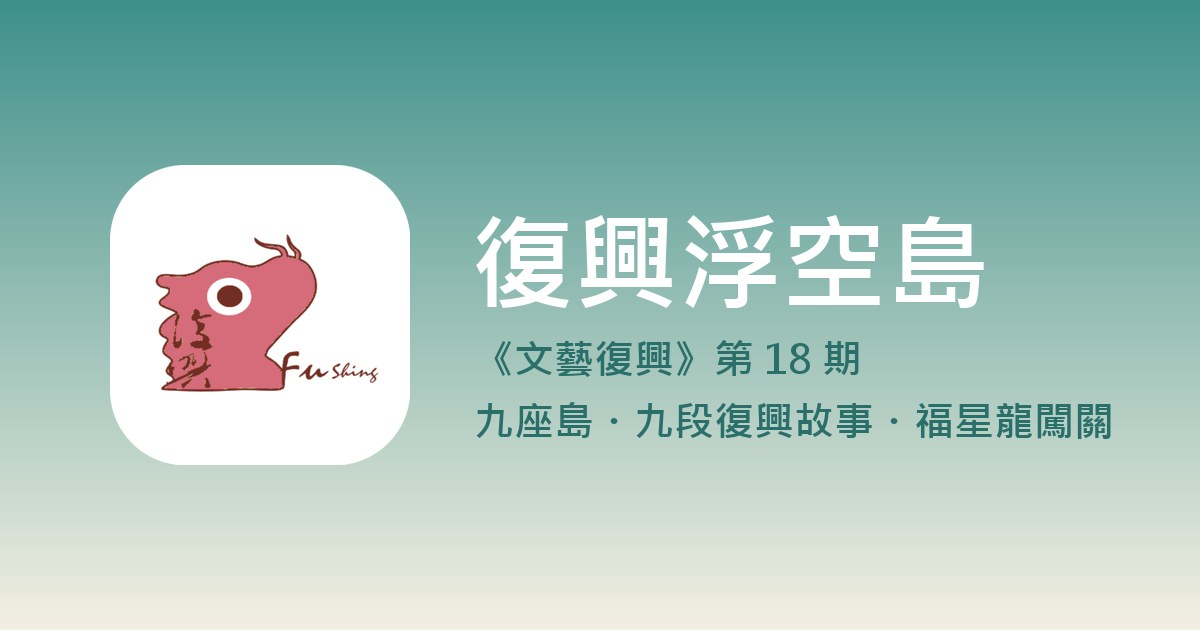
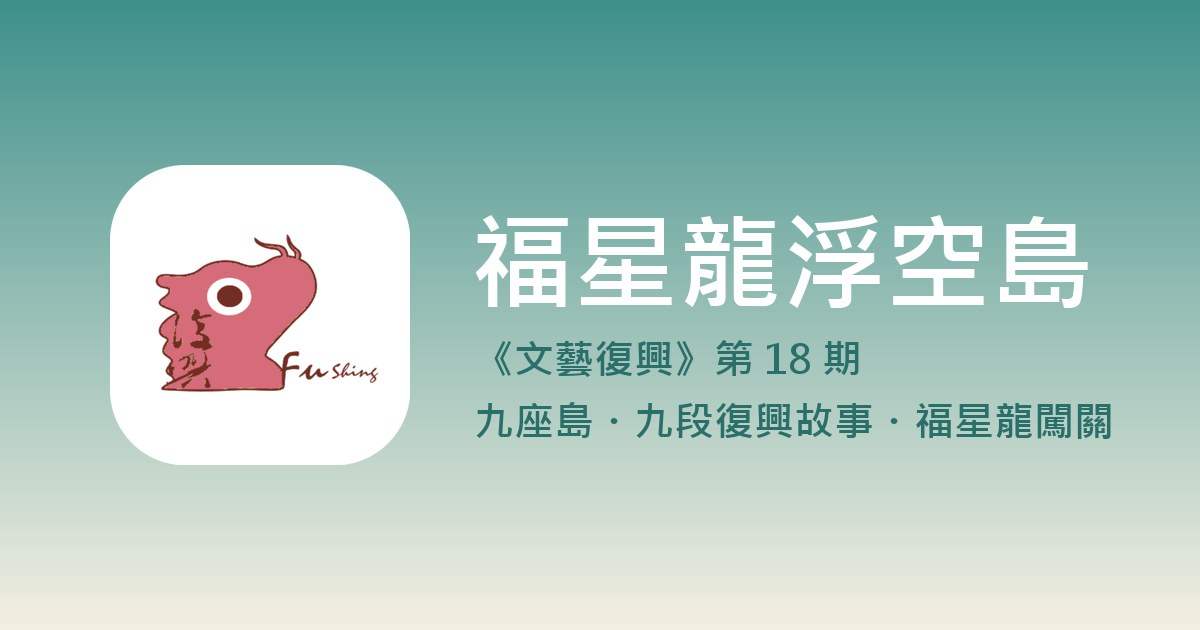
網站改名「福星龍浮空島」，卡片新增 20 張圖片
- 新增活動照片、學生畫作與校刊插圖，27 張卡片有圖、九座島都有
- 收合的卡片顯示小縮圖；單張照片以寬版顯示，畫作與插圖完整呈現
- 畫作避開姓名標籤，照片只用團體照與遠景（scripts/crop-photos18.py）
- 標題、分享圖、主畫面名稱、證書與台詞改為「福星龍浮空島」

Changed region(s): [[0.4008, 0.3317, 0.925, 0.5127]]

diff --git a/src/data/issues/18/index.js b/src/data/issues/18/index.js
@@ -20,6 +20,25 @@ export const PHOTOS = {
   'kids-day': '兒童節：全校班級闖關合照',
   'general-1': '總務處：綠籬修剪',
   'general-2': '總務處：操場球網蓋上黑布',
+  'world-food': '小小環遊世界：韓國美食與埃及甜點手作',
+  'world-art': '國際交流藝術課',
+  'walk-trip': '走讀小達人探索去',
+  'walk-tribe': '部落智慧與科學探索之旅',
+  'honor-model': '114 學年度模範生',
+  'honor-reader': '縣英語讀者劇場比賽',
+  'honor-song': '英語歌謠發表',
+  'kinder-paper': '幼兒園：把再生紙拿去曬太陽',
+  'general-3': '學校服務員榮獲績優工友獎',
+  'art-season': '二年三班〈看見四季〉作品',
+  'art-season2': '二年三班〈看見四季〉作品',
+  'art-tear': '二年二班撕貼畫',
+  'art-charm': '一年二班動物吊飾',
+  'art-masks': '一年三班美勞作品',
+  'clip-hero': '校刊插圖：超能力小英雄',
+  'clip-cookie': '校刊插圖：奶油餅乾',
+  'clip-kids': '校刊插圖：一起讀書的同學',
+  'clip-girl': '校刊插圖：成功的笑容',
+  'clip-mom': '校刊插圖：媽媽的陪伴',
 };
 
 export const ISSUE = {
@@ -42,9 +61,9 @@ export const ISSUE = {
         text: '復興國小秉持「立足在地、放眼國際」：先帶孩子走讀家鄉、認識屏東的歷史與自然，建立對自己文化的認同，再一步步認識世界。\n國際教育不只是學外語，更要學會理解自己、尊重不同的文化。' },
       { id: 'shop', title: '國際柑仔店', from: 'P.3',
         text: '學校打造了「國際柑仔店」，由孩子擔任小關主與小店長，用英語和老師、同學互動。購物、介紹商品、角色扮演，孩子在真實的情境裡練習開口說英語，越說越有自信。低年級還可以用「龍銀」來兌換喔！' },
-      { id: 'egypt', title: '走進埃及生活', from: 'P.3、P.7',
+      { id: 'egypt', title: '走進埃及生活', from: 'P.3、P.7', photos: ['world-food'],
         text: '親職講座邀請中東傳統民俗舞團的老師，帶親子一起「走進埃及生活」。大家認識埃及人的日常與飲食，一起動手做埃及傳統甜點「米布丁」，還品嚐了特色點心「貝都英薄餅」，讓國際教育從校園延伸到家裡。' },
-      { id: 'phil', title: '菲律賓的朋友來了', from: 'P.3',
+      { id: 'phil', title: '菲律賓的朋友來了', from: 'P.3', photos: ['world-art'],
         text: '四月，來自菲律賓兩所高中的師生到學校交流。孩子用陶笛演奏迎賓，送上代表臺灣的文化禮物；五年級學生還和菲律賓高中生用英語討論，一起創作「十二生肖：馬與羊」黏土作品。最後，菲律賓學生帶來精彩的舞蹈表演。' },
       { id: 'my', title: '六年級的馬來西亞之旅', from: 'P.33（六年一班）', pieces: ['p33-3'],
         text: '一位六年一班的同學寫下馬來西亞之旅：吉隆坡的飯店和百貨一間又一間，和網路上說的不一樣；前往雲頂樂園的路上，雲霧濃到手一伸出去就看不見；在 4D 小電影裡開戰機打外星人，緊張又興奮，還玩了第二次。' },
@@ -54,7 +73,7 @@ export const ISSUE = {
 
     // ── 秘境踏查島：家鄉探索 ──
     walk: [
-      { id: 'walk-spring', title: '春天走讀：萬年公園', from: 'P.21（三年一班）', pieces: ['p21-3'],
+      { id: 'walk-spring', title: '春天走讀：萬年公園', from: 'P.21（三年一班）', pieces: ['p21-3'], photos: ['walk-trip'],
         text: '三年一班的同學在春天早上走讀萬年公園：橫跨馬路的天使橋像張開翅膀，萬年溪彎彎的往前流，粉紅風鈴木像掛上鈴鐺在樹梢閃呀閃。回到學校，大家用蠟筆和棉花棒畫下自己最欣賞的大樹。' },
       { id: 'walk-park', title: '帶外國朋友遊屏東', from: 'P.29（五年一班）', pieces: ['p29-3'],
         text: '五年一班的同學帶韓國朋友逛屏東縣民公園，舊紙漿廠的老牆配上熱鬧的夏日慶典；晚上再到屏東夜市吃土魠魚羹。朋友一口接著一口，讓作者發現：最好的國民外交，就是帶朋友感受家鄉的人情味與美味。' },
@@ -62,7 +81,7 @@ export const ISSUE = {
         text: '五年三班的同學帶馬來西亞朋友回爸爸的故鄉澎湖：一早去海邊採蛤蜊，每採到一顆，朋友都像找到寶藏一樣激動；奶奶煮了拿手的蛤蜊大餐，傍晚再一邊吃仙人掌冰一邊看海。' },
       { id: 'walk-food', title: '香氣裡的臺灣好味道', from: 'P.31（五年三班）', pieces: ['p31-3'],
         text: '想像英國女王來到臺灣，五年三班的同學帶她去屏東夜市吃臭臭鍋！聞起來臭、吃起來香，女王一吃就愛上了。作者也化身美食專家，介紹臭豆腐發酵的祕密，再帶女王去縣民公園看燈會。' },
-      { id: 'walk-wutai', title: '我的外交日記：霧台', from: 'P.32（五年四班）', pieces: ['p32-1'],
+      { id: 'walk-wutai', title: '我的外交日記：霧台', from: 'P.32（五年四班）', pieces: ['p32-1'], photos: ['walk-tribe'],
         text: '五年四班的同學帶德國朋友走進屏東霧台鄉：雲霧繚繞的山林、層層疊疊的石板屋，還有晶瑩剔透的愛玉和香噴噴的烤山豬肉。深入家鄉角落後，作者更有自信向世界介紹這片土地。' },
       { id: 'walk-ai', title: 'AI 時代的領航者', from: 'P.29（五年一班）', pieces: ['p29-2'],
         text: '五年一班的同學寫下最欣賞的科技人物：輝達（NVIDIA）執行長黃仁勳。早期的顯示卡賣得不好，他幾度陷入絕境，卻不放棄創新。作者記住了他的一句話：「要跑，而不要用走的！」' },
@@ -78,13 +97,13 @@ export const ISSUE = {
         text: '一年二班的孩子介紹媽媽：臉圓圓的像蘋果、像月亮，頭腦像一台什麼都會的電腦；有的媽媽個性隨和像天使，有的生氣起來像一顆炸彈。孩子說，有媽媽的每一天都好幸福。' },
       { id: 'love-g2', title: '我的家人', from: 'P.18（二年一班）', pieces: ['p18-1', 'p18-3', 'p18-4', 'p18-5', 'p18-6'],
         text: '二年一班寫下家人：溫柔像小白兔的奶奶、陪大家運動的爸爸、半夜發現孩子發燒趕來照顧的媽媽、帶全家去放風箏的爺爺。每一篇最後，都是一句「謝謝您，我愛您！」' },
-      { id: 'love-dad', title: '爸爸像什麼？', from: 'P.19（二年二班）', pieces: range(19, 1, 11),
+      { id: 'love-dad', title: '爸爸像什麼？', from: 'P.19（二年二班）', pieces: range(19, 1, 11), photos: ['art-tear'],
         text: '二年二班用一句話形容爸爸：爸爸像鬧鐘，早上叫我起床；爸爸像許願池，會掏空錢包實現我的願望；爸爸像熱情的太陽，陪我和弟弟打棒球。你的爸爸像什麼呢？' },
       { id: 'love-g3', title: '媽媽，妳是我的指南針', from: 'P.23、P.24（三年級）', pieces: ['p23-3', 'p23-4', 'p24-1', 'p24-2', 'p24-3'],
         text: '三年級的童詩，把媽媽比喻成身邊的東西：溫暖的雙手像翅膀、明亮的眼睛像星星，在孩子迷路或難過的時候給出方向。「哦！媽媽，妳是我的指南針、我的城堡、我的避風港！」' },
       { id: 'love-g5', title: '魔術師媽媽', from: 'P.29～P.32（五年級）', pieces: ['p29-1', 'p30-3', 'p31-1', 'p32-3', 'p32-4'],
         text: '五年級的孩子說，媽媽是魔術師：哭的時候變成搞笑小丑，跌倒時變成厚實的高牆，熬夜念書時變成夜燈，未來遠行時變成指引回家的北極星。也有人說媽媽像春風、像暖暖包、像一顆輕軟的枕頭。' },
-      { id: 'love-g4', title: '我最敬佩的人：媽媽', from: 'P.28、P.32（四、五年級）', pieces: ['p28-1', 'p28-2', 'p32-2'],
+      { id: 'love-g4', title: '我最敬佩的人：媽媽', from: 'P.28、P.32（四、五年級）', pieces: ['p28-1', 'p28-2', 'p32-2'], photos: ['clip-mom'],
         text: '四、五年級的孩子寫下最敬佩的媽媽：第一個起床做早餐、身體不舒服還堅持工作、全家感冒時守在床邊。孩子們說，希望長大後也能像媽媽一樣，成為堅強、善良又溫柔的人。' },
     ],
 
@@ -92,9 +111,9 @@ export const ISSUE = {
     results: [
       { id: 'honor-sport', title: '運動場上的光', from: 'P.11 學務處', photos: ['honor-1', 'honor-2'],
         text: '柔道：全國柔道錦標賽有同學拿下冠軍與季軍，縣中小學聯合運動會共有 10 人次得名。\n跆拳道：縣主委盃、高雄港都盃、嘉義理事長盃等比賽，低年級選手表現亮眼，多人拿下品勢第一名。\n團體：棒球隊拿下縣華南金控選拔賽與學生棒球聯賽縣初賽兩項冠軍；舞蹈菁英班在全國舞蹈比賽決賽獲得優等；合唱團獲得縣客家歌謠比賽甲等；圍棋也有同學得名。' },
-      { id: 'honor-study', title: '學科與藝文的榮耀', from: 'P.9、P.10 教務處',
+      { id: 'honor-study', title: '學科與藝文的榮耀', from: 'P.9、P.10 教務處', photos: ['honor-reader', 'honor-song'],
         text: '校內語文競賽：國語、臺語、英語朗讀，以及作文、字音字形、硬筆字，共頒出 37 個名次。\n校外比賽：數學全國競賽、閱讀全國競賽、溫世仁作文比賽、國泰兒童繪畫比賽、程式遊戲設計競賽都有同學獲獎；英語讀者劇場團隊榮獲縣賽優等，四年一班在英語歌謠發表獲得甲等。\n寒假作業：23 個班級共 115 位同學獲選為優良作業。' },
-      { id: 'honor-life', title: '生活競賽與模範生', from: 'P.11、P.12',
+      { id: 'honor-life', title: '生活競賽與模範生', from: 'P.11、P.12', photos: ['honor-model'],
         text: '整潔、秩序、禮貌三項生活競賽每週評比，各年段輪流拿下前三名，比的是大家每天的好習慣。\n114 學年度選出縣模範生 1 位，各班也選出市長獎、校長獎、家長會長獎三位模範生代表，一共 69 位。' },
       { id: 'honor-grad', title: '第 58 屆畢業典禮', from: 'P.36',
         text: '114 學年度第 58 屆畢業典禮，三個畢業班的同學獲頒縣長獎、議長獎、市長獎、校長獎、家長會長獎、議員獎、里長獎，以及潛力獎、飛躍獎、特殊藝文與體育表現獎等二十多種獎項，肯定每個人六年來不同面向的努力。' },
@@ -102,13 +121,13 @@ export const ISSUE = {
 
     // ── 奇思妙想島：想像創作（二至六年級）──
     inquiry: [
-      { id: 'create-season', title: '看見四季', from: 'P.20（二年三班）', pieces: range(20, 1, 27),
+      { id: 'create-season', title: '看見四季', from: 'P.20（二年三班）', pieces: range(20, 1, 27), photos: ['art-season', 'art-season2'],
         text: '二年三班全班一起用「一眼就看見」寫四季：斑馬跑出森林，看見綠綠的叢林，春天是綠色的；小海豚游出大海，看見黃色的沙灘，夏天是黃色的；小貓看見紅色的楓葉，秋天是紅色的；小兔子看見白白的雪地，冬天是白色的。' },
-      { id: 'create-power', title: '如果我有超能力', from: 'P.22（三年二班）', pieces: range(22, 1, 3),
+      { id: 'create-power', title: '如果我有超能力', from: 'P.22（三年二班）', pieces: range(22, 1, 3), photos: ['clip-hero'],
         text: '三年二班的孩子最想擁有飛行的超能力：可以幫忙撿飛走的氣球、躲在雲層上玩捉迷藏、和雲朵當好朋友、早上飛去夏威夷晚上飛去冰島看極光。他們也說，只要保持想像力，就擁有世界上最厲害的超能力。' },
       { id: 'create-rabbit', title: '兔子農夫的一天', from: 'P.23（三年三班）', pieces: ['p23-1', 'p23-2'],
         text: '看圖說故事：兔子農夫在農田裡發現三片巨大的葉子，大得像鐵扇公主的芭蕉扇。他找來大熊、松鼠、小貓、小狗和老鼠一起拔，終於拔出一顆超大的白蘿蔔，晚上做成蘿蔔湯、蘿蔔糕，吃了好久都吃不完。' },
-      { id: 'create-g3', title: '樂高、餅乾與許願', from: 'P.21（三年一班）', pieces: ['p21-4', 'p21-1', 'p21-2', 'p21-5'],
+      { id: 'create-g3', title: '樂高、餅乾與許願', from: 'P.21（三年一班）', pieces: ['p21-4', 'p21-1', 'p21-2', 'p21-5'], photos: ['clip-cookie'],
         text: '三年一班的作文好有生活感：樂高是「活著的玩具」，轉個角度就能解決卡住的地方；奶油餅乾有好多種吃法，但媽媽說糖不能吃太多；打針前心臟碰碰跳，打完才發現比蚊子叮還輕。還有一首童詩寫下大家的願望。' },
       { id: 'create-holiday', title: '我的假日休閒活動', from: 'P.26（四年二班）', pieces: range(26, 1, 4),
         text: '「休息是為了走更長遠的路。」四年二班的孩子說，假日就像充電器：騎腳踏車去縣民公園、和好朋友玩桌遊、全家去遛狗，或是和朋友打籃球。好好休息，才能充滿活力迎接新的一週。' },
@@ -120,13 +139,13 @@ export const ISSUE = {
 
     // ── 萌芽歡樂島：幼兒園與一年級 ──
     forest: [
-      { id: 'sprout-k', title: '幼兒園的環保小尖兵', from: 'P.4、P.5 幼兒園', pieces: ['page4'], photos: ['kinder-1'],
+      { id: 'sprout-k', title: '幼兒園的環保小尖兵', from: 'P.4、P.5 幼兒園', pieces: ['page4'], photos: ['kinder-1', 'kinder-paper'],
         text: '幼兒園的孩子在團體討論中決定當環保小尖兵：兩兩一組，用回收紙杯做成的夾子去打掃社區，結果垃圾多到裝不下，只好裝滿一大袋。於是他們在世界地球日邀請社區的爺爺奶奶一起簽署愛護地球，回到教室再學垃圾分類。\n他們還用甘蔗渣和紙蛋盒做出再生紙：撕碎、泡水攪拌、倒進大桶、用網框撈起，再拿去曬太陽。' },
       { id: 'sprout-like', title: '像什麼？一年一班的比喻', from: 'P.14（一年一班）', pieces: range(14, 1, 8),
         text: '一年一班學會「像」：貓咪的眼睛像珍珠，亮晶晶的；獵豹的速度像賽車；媽媽的眼睛像星星。還有「聽一聽、看一看、聞一聞」的小詩，帶你去動物園和迪士尼找一找。' },
-      { id: 'sprout-dog', title: '我的小狗', from: 'P.15（一年二班）', pieces: ['p15-2'],
+      { id: 'sprout-dog', title: '我的小狗', from: 'P.15（一年二班）', pieces: ['p15-2'], photos: ['art-charm'],
         text: '一年二班的同學介紹最棒的家人——小狗：臉毛茸茸的像小綿羊，發脾氣時像小老虎，被捉弄時卻熱情地舔主人的臉。有牠陪伴，每一天都充滿幸福。' },
-      { id: 'sprout-compare', title: '比一比，有什麼不同？', from: 'P.16（一年三班）', pieces: range(16, 1, 5),
+      { id: 'sprout-compare', title: '比一比，有什麼不同？', from: 'P.16（一年三班）', pieces: range(16, 1, 5), photos: ['art-masks'],
         text: '一年三班的孩子學會比一比：「天上地下，比一比，有什麼不同？」葡萄小小的、橘子大大的；「生日的日、數目的目」，字形很像，意思卻不一樣。過新年時，還想送蘋果、水餃和鳳梨給大家當祝福。' },
       { id: 'sprout-poem', title: '一年四班童詩集', from: 'P.17（一年四班）', pieces: range(17, 1, 23),
         text: '一年四班寫了二十多首童詩：下雨、老虎、蜜蜂、彩虹、風箏、海底世界……\n「藍藍的天空，太陽白雲掛天空，烏雲來了像黑洞，下雨打雷轟隆隆。」每一首都短短的、押著韻，好適合大聲念出來。' },
@@ -136,7 +155,7 @@ export const ISSUE = {
 
     // ── 乘風蛻變島：成長與畢業 ──
     future: [
-      { id: 'grow-success', title: '那一次，我成功了！', from: 'P.28（四年四班）', pieces: ['p28-3', 'p28-4'],
+      { id: 'grow-success', title: '那一次，我成功了！', from: 'P.28（四年四班）', pieces: ['p28-3', 'p28-4'], photos: ['clip-girl'],
         text: '四年四班的孩子寫下自己的突破：有人在爸爸陪伴下，從車頭搖晃、扭傷腳想放棄，到終於穩穩騎上兩輪腳踏車；也有人鼓起勇氣報名演講比賽，從結結巴巴、忘詞，練到站上台贏得熱烈掌聲。' },
       { id: 'grow-treasure', title: '我心目中的寶', from: 'P.25（四年一班）', pieces: ['p25-1'],
         text: '有同學說，他心目中的寶不是珠寶，而是用心得到的柔道獎牌。第一次比賽被對手弄得團團轉，教練說：「天才是百分之一的天分和百分之九十九的努力。」他更努力練習，終於拿到人生第一面獎牌。' },
@@ -148,7 +167,7 @@ export const ISSUE = {
         text: '楊恩典一出生就沒有雙手，嬰兒時被遺棄，幸好被育幼院的牧師夫婦收養。她用腳趾練習寫字、畫畫，練到紅腫抽筋也不放棄，最後成為國際知名的口足畫家。作者說，以後遇到困難想放棄時，就會想起她用雙腳揮灑色彩的模樣。' },
       { id: 'grow-friend', title: '一個影響我深遠的人', from: 'P.33（六年一班）', pieces: ['p33-2', 'p33-1'],
         text: '一位比較靦腆的同學，因為好朋友的一句話而改變：「妳要先學會愛自己，才可以學會怎麼愛別人。」她明白每個人都有優缺點，要勇敢活出耀眼的自己。另一篇則記下寒假全家圍著火鍋聊天的溫暖時光。' },
-      { id: 'grow-bye', title: '再見了，我的母校', from: 'P.34（六年二班）', pieces: ['p34-1', 'p34-2'],
+      { id: 'grow-bye', title: '再見了，我的母校', from: 'P.34（六年二班）', pieces: ['p34-1', 'p34-2'], photos: ['clip-kids'],
         text: '六年級的畢業生回顧六年：從一年級的陌生緊張，到有老師耐心的教導、同學情同手足的陪伴，校園就像第二個家。「再見了，我的母校！」畢業是結束，也是新的開始。' },
       { id: 'grow-memory', title: '童年的美好回憶、溫暖人間', from: 'P.35（六年三班）', pieces: ['p35-1', 'p35-2', 'p35-3'],
         text: '六年三班寫下陪伴童年的玩偶：一隻白色小貓、一隻紅色長耳兔，陪他們度過孤單與怕黑的夜晚。另一篇〈溫暖人間〉寫上學路上看到年輕人扶起撿瓶罐的奶奶，明白溫暖人間其實很簡單。' },
@@ -162,9 +181,9 @@ export const ISSUE = {
         text: '這學期有大學教授、校長與各界專家到校，陪老師一起成長：生涯發展教育、Smart Reading 適性閱讀數據解析、PBL 校訂課程發展、英語字母拼讀、手鞠球、情緒陪伴、性平教育與教師職業安全等。\n也有大學與基金會長期陪伴孩子：英語攜手、一對一學習陪伴、舞蹈菁英班、柔道社團、棒球隊與夜光天使班課業輔導。' },
       { id: 'support-funds', title: '愛心與補助', from: 'P.8',
         text: '這學期共有 23 筆補助與捐資，總計 4,550,091 元，來自縣政府、市公所、教育部、學生棒球聯盟、基金會、企業與熱心人士。\n這些經費用在棒球隊訓練、數位鋼琴與筆電、視聽教室與廁所整修、災後復建、書包裡的美術館、課業輔導、低收入戶助學金與各種獎學金。' },
-      { id: 'support-general', title: '總務處的 28 項大事記', from: '總務處大事記', photos: ['general-1', 'general-2'],
+      { id: 'support-general', title: '總務處的 28 項大事記', from: '總務處大事記', photos: ['general-1', 'general-2', 'general-3'],
         text: '總務處完成消防防護計畫、飲水機保養、電路檢測、冷氣清洗、登革熱清消、防颱準備、排水設備增設、紗門紗窗安裝、空橋步道平整、欄杆加裝等工作；也爭取到廁所整修、PU 跑道、太陽能照明與無障礙電梯規劃等工程，學校的服務員還榮獲績優工友獎。' },
-      { id: 'support-student', title: '學務處活動剪影', from: '學務處',
+      { id: 'support-student', title: '學務處活動剪影', from: '學務處', photos: ['kids-day', 'honor-2'],
         text: '學務處帶大家過節、比賽：母親節的親子擁抱與手作、兒童節的巧克力噴泉與全校闖關，還有舞蹈菁英班在全國舞蹈比賽與模範母親表揚大會上的精彩演出。' },
     ],
   },

diff --git a/src/styles.css b/src/styles.css
@@ -806,11 +806,14 @@ body.listing .walkbar { display: none; }
 .dialog.qr-big .qr-box img { width: min(100%, calc(100dvh - 210px)); max-width: 760px; }
 .dialog.qr-big .qr-tip, .dialog.qr-big .qr-pick { display: none; }
 
-/* ───── 復興浮空島：內容卡片 ───── */
+/* ───── 福星龍浮空島：內容卡片 ───── */
 .panel .plain { margin: 2px 0 0; font-size: 0.95rem; opacity: 0.8; }
 .fs-tour { margin: 0 0 12px; line-height: 1.7; }
 .fs-card { margin: 0 0 10px; padding: 10px 12px; border: 1px solid color-mix(in srgb, var(--c, #888) 35%, transparent); border-radius: 12px; background: color-mix(in srgb, var(--c, #888) 7%, transparent); }
-.fs-card > summary { cursor: pointer; display: flex; flex-direction: column; gap: 2px; list-style: none; }
+.fs-card > summary { cursor: pointer; display: flex; align-items: center; gap: 10px; list-style: none; }
+.fs-sum { flex: 1; min-width: 0; display: flex; flex-direction: column; gap: 2px; }
+.fs-thumb { flex: none; width: 64px; height: 48px; object-fit: cover; border-radius: 8px; box-shadow: var(--shadow-rest); }
+.fs-card[open] > summary .fs-thumb { display: none; }
 .fs-card > summary::-webkit-details-marker { display: none; }
 .fs-card > summary b { font-size: 1.05rem; }
 .fs-card > summary small { opacity: 0.65; }
@@ -833,9 +836,12 @@ body.listing .walkbar { display: none; }
 :focus-visible { outline-color: var(--gold); }
 
 /* ───── 卡片照片、看原文、燈箱、注音 ───── */
-.fs-photos { display: grid; grid-template-columns: repeat(auto-fill, minmax(120px, 1fr)); gap: 6px; margin: 10px 0 2px; }
+.fs-photos { display: grid; grid-template-columns: repeat(auto-fill, minmax(140px, 1fr)); gap: 6px; margin: 10px 0 2px; }
+.fs-photos:has(> :only-child) { grid-template-columns: 1fr; }
+.fs-photos:has(> :only-child) .fs-photo { aspect-ratio: 16 / 9; }
 .fs-photo { border-radius: 9px; overflow: hidden; aspect-ratio: 4 / 3; background: var(--paper-3); }
 .fs-photo img { width: 100%; height: 100%; object-fit: cover; transition: transform .25s; }
+.fs-photo img[src*="/clip-"], .fs-photo img[src*="/art-"] { object-fit: contain; background: #fff; }
 .fs-photo:hover img { transform: scale(1.05); }
 .fs-more { margin-top: 10px; border-top: 1px dashed var(--line); padding-top: 8px; }
 .fs-more > summary { display: block; cursor: pointer; font-size: var(--fs-sm); font-weight: 700; color: var(--koi-deep); list-style: none; }

diff --git a/index.html b/index.html
@@ -20,11 +20,11 @@ addEventListener('error', function (e) {
 }, true);
 </script>
 <meta name="viewport" content="width=device-width, initial-scale=1, viewport-fit=cover" />
-<title>復興浮空島</title>
+<title>福星龍浮空島</title>
 <meta name="description" content="屏東縣復興國小《文藝復興》第 18 期的 3D 浮空島學習網站：九座島、九段復興故事。" />
 <meta name="theme-color" content="#3d8f8a" />
 <meta property="og:type" content="website" />
-<meta property="og:title" content="復興浮空島｜《文藝復興》第 18 期" />
+<meta property="og:title" content="福星龍浮空島｜《文藝復興》第 18 期" />
 <meta property="og:description" content="九座浮空島、九段復興故事。讀完內容、答對題目，集滿福星龍印章領取學習證書。" />
 <meta property="og:image" content="https://buddhaists.github.io/fushing-island/og.jpg" />
 <meta property="og:image:width" content="1200" />
@@ -41,14 +41,14 @@ addEventListener('error', function (e) {
 <link href="https://fonts.googleapis.com/css2?family=LXGW+WenKai+TC:wght@400;700&family=Noto+Sans+TC:wght@400;500;700&display=swap" rel="stylesheet" />
 </head>
 <body>
-<canvas id="world" aria-label="復興浮空島 3D 場景，可拖曳旋轉、滾輪縮放，點選島嶼查看內容"></canvas>
+<canvas id="world" aria-label="福星龍浮空島 3D 場景，可拖曳旋轉、滾輪縮放，點選島嶼查看內容"></canvas>
 <div id="labels" class="labels" aria-hidden="false"></div>
 <div id="app"></div>
 
 <div id="loader" class="loader" role="status">
   <div class="loader-card">
     <img src="./mascot/logo-fushing.png" alt="" width="132" height="110" />
-    <h1>復興浮空島</h1>
+    <h1>福星龍浮空島</h1>
     <p class="loader-sub">《文藝復興》第 18 期</p>
     <div class="loader-bar"><span id="loaderBar"></span></div>
     <p id="loaderText" class="loader-text">展開雲海…</p>

diff --git a/src/main.js b/src/main.js
@@ -50,7 +50,7 @@ $('#app').innerHTML = `
 <header class="topbar">
   <button class="brand card" data-act="home" aria-label="回到浮空島全景">
     <img src="./mascot/logo-fushing.png" alt="福星龍" width="50" height="50">
-    <span><h1>復興浮空島</h1><p>《文藝復興》第 ${ISSUE.no} 期｜九座島，九段復興故事</p></span>
+    <span><h1>福星龍浮空島</h1><p>《文藝復興》第 ${ISSUE.no} 期｜九座島，九段復興故事</p></span>
   </button>
 </header>
 
@@ -162,7 +162,8 @@ function originalHtml(ids) {
 function cardHtml(c, i, island) {
   const photos = (c.photos || []).map((k) => `<button class="fs-photo" data-act="photo" data-photo="${k}" aria-label="放大照片：${esc(PHOTOS[k] || '')}"><img src="${photoSrc(k)}" alt="${esc(PHOTOS[k] || '')}" loading="lazy"></button>`).join('');
   const orig = c.pieces?.length ? `<details class="fs-more"><summary>看原文${c.pieces.length > 1 ? `（${c.pieces.length} 篇）` : ''}</summary>${originalHtml(c.pieces)}</details>` : '';
-  return `<details class="fs-card" data-island="${island}" data-card="${c.id}" ${i === 0 ? 'open' : ''}><summary><b>${esc(c.title)}</b><small>${esc(c.from)}</small></summary>${photos ? `<div class="fs-photos">${photos}</div>` : ''}${paras(c.text)}${orig}</details>`;
+  const thumb = c.photos?.length ? `<img class="fs-thumb" src="${photoSrc(c.photos[0])}" alt="" loading="lazy">` : '';
+  return `<details class="fs-card" data-island="${island}" data-card="${c.id}" ${i === 0 ? 'open' : ''}><summary><span class="fs-sum"><b>${esc(c.title)}</b><small>${esc(c.from)}</small></span>${thumb}</summary>${photos ? `<div class="fs-photos">${photos}</div>` : ''}${paras(c.text)}${orig}</details>`;
 }
 
 // ───────── 讀完內容、答題拿章 ─────────

diff --git a/src/data/site.js b/src/data/site.js
@@ -85,7 +85,7 @@ export const PEOPLE_LINES = {
     ball: ['接好囉！', '換你丟給我！', '哇，好高的球！', '小心，不要丟到水裡！'],
     tag: ['來抓我呀！', '追不到追不到！', '換你當鬼了！', '跑慢一點，小心跌倒！'],
     jump: ['今天好開心！', '我們再跳一次！', '看我跳得比你高！'],
-    wave: ['哈囉！歡迎來到復興浮空島！', '要不要跟我們一起逛？', '你找到幾隻福星龍了？'],
+    wave: ['哈囉！歡迎來到福星龍浮空島！', '要不要跟我們一起逛？', '你找到幾隻福星龍了？'],
     rainteach: ['雨天也能觀察，看看雨滴落在哪裡！', '撐好傘，我們把這段講完就換地方。', '雨水流到哪裡去了？我們一起找找看。'],
     rainlisten: ['老師，我的鞋子濕了啦！', '雨聲好好聽，像在打鼓！'],
     puddle: ['啪嗒！水花好大！', '誰踩的水花最大？', '鞋子濕了也好好玩！', '水窪裡有我的倒影耶！'],

diff --git a/src/world/islands.js b/src/world/islands.js
@@ -1,4 +1,4 @@
-// 浮空島的地標與擺設（復興浮空島沿用其中九座並改造）。每座回傳靜態場景，並登記互動定位點與動態零件
+// 浮空島的地標與擺設（福星龍浮空島沿用其中九座並改造）。每座回傳靜態場景，並登記互動定位點與動態零件
 import * as THREE from 'three';
 import { Kit, G } from './kit.js';
 import { makeBase, floatingRock, outline } from './base.js';

diff --git a/src/ui/fs-cert.js b/src/ui/fs-cert.js
@@ -92,7 +92,7 @@ export async function drawCert({ nick, islands, dragons, total, school, issue })
   g.fillText(`福星龍圖鑑：找到 ${dragons} / ${total} 隻`, W / 2, 935);
 
   g.font = `500 28px ${BODY}`;
-  g.fillText(`${school}｜復興浮空島`, W / 2, 1010);
+  g.fillText(`${school}｜福星龍浮空島`, W / 2, 1010);
   g.fillText(rocDate(), W / 2, 1052);
 
   return c.toDataURL('image/png');

diff --git a/scripts/crop-photos18.py b/scripts/crop-photos18.py
@@ -1,0 +1,63 @@
+# 從《文藝復興》第 18 期 PDF 頁面裁切照片與插圖到 public/photos/18/
+# 用法：python scripts/crop-photos18.py <PDF 路徑> [輸出資料夾] [只裁這些 id…]
+# 座標是頁面寬高的比例 (左, 上, 右, 下)。只選團體照、遠景與插圖；學生畫作裁掉旁邊的姓名標籤
+import sys
+import fitz
+from PIL import Image
+
+PDF = sys.argv[1]
+OUT = sys.argv[2] if len(sys.argv) > 2 else 'public/photos/18'
+ONLY = set(sys.argv[3:])
+
+CROPS = {
+    # 第一批（階段 2）
+    'cover': (1, 0.0, 0.305, 1.0, 0.575),
+    'intl-1': (5, 0.102, 0.778, 0.353, 0.922),
+    'intl-2': (5, 0.368, 0.778, 0.648, 0.922),
+    'mom-1': (15, 0.442, 0.357, 0.873, 0.503),
+    'mom-2': (15, 0.132, 0.828, 0.403, 0.922),
+    'honor-1': (13, 0.548, 0.768, 0.928, 0.897),
+    'honor-2': (40, 0.658, 0.668, 0.952, 0.808),
+    'kinder-1': (6, 0.412, 0.708, 0.958, 0.952),
+    'kids-day': (40, 0.358, 0.452, 0.632, 0.590),
+    'general-1': (39, 0.272, 0.378, 0.418, 0.512),
+    'general-2': (39, 0.437, 0.378, 0.583, 0.512),
+    # 第二批：活動照片
+    'world-food': (2, 0.60, 0.17, 0.95, 0.36),
+    'world-art': (2, 0.36, 0.66, 0.60, 0.775),
+    'walk-trip': (2, 0.27, 0.37, 0.62, 0.52),
+    'walk-tribe': (2, 0.62, 0.66, 0.95, 0.795),
+    'honor-model': (14, 0.10, 0.15, 0.93, 0.27),
+    'honor-reader': (12, 0.635, 0.458, 0.97, 0.53),
+    'honor-song': (12, 0.62, 0.76, 0.97, 0.90),
+    'kinder-paper': (7, 0.05, 0.76, 0.62, 0.95),
+    'general-3': (39, 0.06, 0.21, 0.39, 0.355),
+    # 第二批：學生畫作（避開姓名標籤）
+    'art-season': (22, 0.096, 0.80, 0.378, 0.925),
+    'art-season2': (22, 0.707, 0.80, 0.94, 0.925),
+    'art-tear': (21, 0.055, 0.80, 0.97, 0.915),
+    'art-charm': (17, 0.00, 0.60, 0.32, 0.725),
+    'art-masks': (18, 0.52, 0.70, 0.92, 0.925),
+    # 第二批：校刊插圖
+    'clip-hero': (24, 0.62, 0.10, 0.97, 0.28),
+    'clip-cookie': (23, 0.35, 0.05, 0.62, 0.14),
+    'clip-kids': (36, 0.10, 0.862, 0.33, 0.95),
+    'clip-girl': (30, 0.785, 0.84, 0.88, 0.955),
+    'clip-mom': (30, 0.092, 0.82, 0.245, 0.955),
+}
+
+d = fitz.open(PDF)
+cache = {}
+for k, (pg, x0, y0, x1, y1) in CROPS.items():
+    if ONLY and k not in ONLY:
+        continue
+    if pg not in cache:
+        p = d[pg - 1].get_pixmap(dpi=170)
+        cache[pg] = Image.frombytes('RGB', (p.width, p.height), p.samples)
+    im = cache[pg]
+    W, H = im.size
+    c = im.crop((int(x0 * W), int(y0 * H), int(x1 * W), int(y1 * H)))
+    if c.width > 1200:
+        c = c.resize((1200, int(c.height * 1200 / c.width)), Image.LANCZOS)
+    c.save(f'{OUT}/{k}.webp', quality=80)
+    print(k, c.size)

diff --git a/scripts/make-icons.py b/scripts/make-icons.py
@@ -61,7 +61,7 @@ og.alpha_composite(b, (110, 165))
 d = ImageDraw.Draw(og)
 title = ImageFont.truetype(FONT, 104)
 sub = ImageFont.truetype(FONT, 40)
-d.text((470, 190), '復興浮空島', font=title, fill=(255, 255, 255))
+d.text((470, 190), '福星龍浮空島', font=title, fill=(255, 255, 255))
 d.text((474, 330), '《文藝復興》第 18 期', font=sub, fill=(43, 111, 107))
 d.text((474, 392), '九座島・九段復興故事・福星龍闖關', font=sub, fill=(43, 111, 107))
 og.convert('RGB').save(OUT + 'og.jpg', quality=88)

diff --git a/README.md b/README.md
@@ -1,4 +1,4 @@
-# 復興浮空島｜《文藝復興》第 18 期
+# 福星龍浮空島｜《文藝復興》第 18 期
 
 屏東縣屏東市復興國民小學校刊《文藝復興》第 18 期（民國 115 年 6 月 15 日出刊）的 3D 浮空島學習網站。
 九座浮空島對應九個主題，孩子讀完每座島的內容、答對闖關題目就能蓋章，集滿九枚印章可以領取「福星龍學習證書」。
